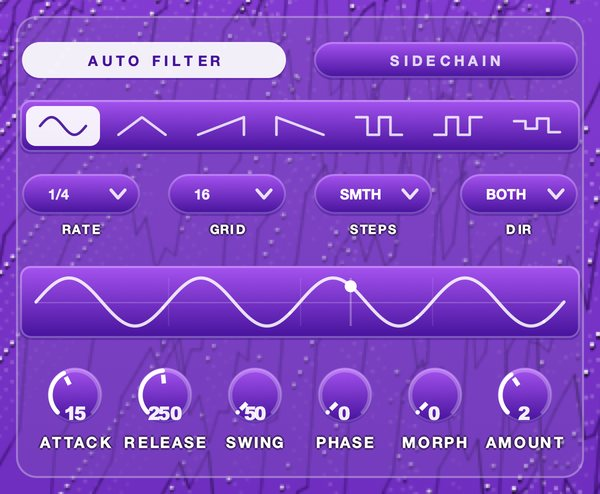
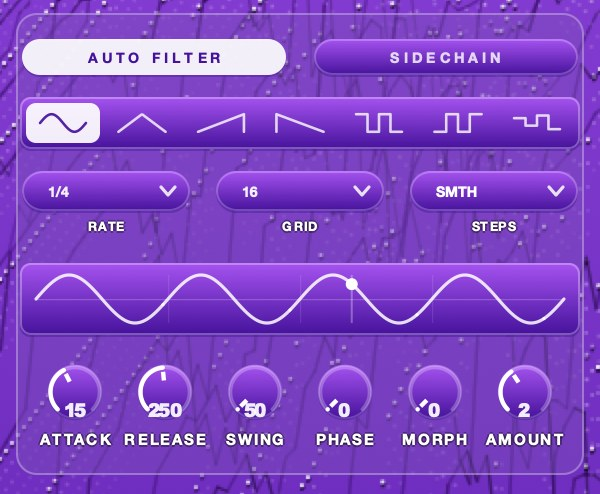
F12 controls page: 2.0.2 (WAH, DRAW, RESO/Q defaults, auto-filter DIR gone, MAX AURA)

Changed region(s): [[0.0, 0.0, 1.0, 1.0], [0.15, 0.7591, 0.18, 0.7895]]

diff --git a/f12-controls.html b/f12-controls.html
@@ -228,7 +228,7 @@ footer a:focus-visible{outline:2px solid var(--chalk); outline-offset:3px}
 
     <div class="ctl">
       <div class="ctl-head"><h3>Max Aura</h3><p class="spec">Switch &middot; <b>off</b> &middot; hidden while AURA is off</p></div>
-      <p class="lead">The same, turned all the way up. More of everything AURA already does to whatever it touches.</p>
+      <p class="lead">More air, more lift, more of the butter.</p>
       <p>You will know within a bar whether a track wants it.</p>
       <div class="plates">
         <figure>
@@ -337,7 +337,7 @@ footer a:focus-visible{outline:2px solid var(--chalk); outline-offset:3px}
     <div class="ctl">
       <div class="ctl-head"><h3>Dirty</h3><p class="spec">Switch &middot; <b>on</b></p></div>
       <p class="lead">Feeds the filter's own distortion back through itself. Off, the same filter runs clean.</p>
-      <p>SLOPE, DIRTY and Q SHAPE are separate controls, so a steep dirty filter can also be a wah. It opens dirty. There is no neutral starting point here on purpose.</p>
+      <p>SLOPE, DIRTY and Q SHAPE are separate controls. It opens dirty. There is no neutral starting point here on purpose.</p>
     </div>
 
     <div class="ctl">
@@ -350,7 +350,7 @@ footer a:focus-visible{outline:2px solid var(--chalk); outline-offset:3px}
       <ul class="opts">
         <li><b>Plain</b> no nodes. The filter's own resonance and nothing added.</li>
         <li><b>Draw</b> your own, drawn on the display. It has its own entry below.</li>
-        <li><b>Wah</b> one strong peak right at the cutoff, with a shallow dip just over an octave above it. The body underneath stays &mdash; a boost, so the lows do not leave when you sweep it.</li>
+        <li><b>Wah</b> one peak that moves with POSITION, sharp at the bottom of its travel and broader at the top, with the lows and highs falling away either side. It takes the filter's place while it is on, so CUTOFF SHAPE, SLOPE, DIRTY, RESO and Q leave it alone.</li>
         <li><b>Vowel</b> four peaks spaced the way a formant table spaces them.</li>
         <li><b>Comb</b> peaks and nulls alternating on even spacing, seven of them across the range.</li>
         <li><b>Scoop</b> a smile. Both ends lifted and the cutoff itself pulled down between them.</li>
@@ -361,34 +361,35 @@ footer a:focus-visible{outline:2px solid var(--chalk); outline-offset:3px}
     </div>
 
     <div class="ctl">
-      <div class="ctl-head"><h3>Draw</h3><p class="spec">Q SHAPE &middot; up to 7 points</p></div>
+      <div class="ctl-head"><h3>Draw</h3><p class="spec">Q SHAPE &middot; up to 12 points</p></div>
       <p class="lead">Your own Q shape. Pick DRAW and the display is where you draw it, starting from the shape you were on.</p>
       <figure class="wide">
         <img src="/f12/manual/grp-draw.jpg" width="600" height="462" alt="The display in DRAW: the filter line bent by four points - a boost low down, a notch cut to the floor, a tall peak with its width handles out either side, and a dip on the falling slope." loading="lazy" decoding="async">
         <figcaption>Four points, one selected with its handles out</figcaption>
       </figure>
       <ul class="opts">
-        <li><b>Click</b> empty space to add a point, and drag it anywhere. All the way down takes that frequency out; all the way up is +24&thinsp;dB.</li>
+        <li><b>Click</b> empty space to add a point, and drag it anywhere. All the way down takes that frequency out; all the way up takes it to the top of the display.</li>
         <li><b>Handles</b> click a point and pull the handles either side of it for its width. Scrolling over a point does the same: up narrows, down widens.</li>
-        <li><b>Right-click</b> a point for bell, notch, low shelf, high shelf, low cut or high cut, or to delete it. Double-click deletes it too.</li>
+        <li><b>Right-click</b> a point for bell, notch, low shelf, high shelf, low cut, high cut, band or tilt, to pin it, or to delete it. Double-click deletes it too.</li>
       </ul>
       <p>The points sit at ratios of the cutoff like every other shape, so they ride POSITION, the auto filter and the sidechain. It works the same on the panel and in the pop-out.</p>
+      <p>A pinned point stays at its frequency while the line moves past it. Drag the line itself, in any Q SHAPE, to move the whole curve up or down: that is OUTPUT TRIM, &plusmn;36&thinsp;dB.</p>
     </div>
 
     <div class="ctl">
       <div class="ctl-head"><h3>Drive, Reso, Q, Mix</h3><p class="spec">The four small dials</p></div>
       <figure class="wide">
-        <img src="/f12/manual/grp-fknobs.jpg" width="560" height="132" alt="The four filter dials: DRIVE at 0, RESO at 25, Q at 35 and MIX at 100." loading="lazy" decoding="async">
+        <img src="/f12/manual/grp-fknobs.jpg" width="560" height="132" alt="The four filter dials: DRIVE at 0, RESO at 0, Q at 0 and MIX at 100." loading="lazy" decoding="async">
         <figcaption>Drive &middot; reso &middot; q &middot; mix</figcaption>
       </figure>
       <ul class="opts">
         <li><b>Drive</b> how hard the signal is pushed into the filter's own saturation. The gain comes back off afterwards, so driving it is character rather than volume. It works wherever the filter is running, and does nothing with FILTER off. 0 to 18&thinsp;dB, opens at 0.</li>
-        <li><b>Reso</b> how hard it sings. 0 to 100&thinsp;%, opens at 25.</li>
-        <li><b>Q</b> how narrow that singing is, and how tight the Q SHAPE nodes sit with it. It drives a peaking section right at the corner, so it is audible on every shape including PLAIN. 0 to 100&thinsp;%, opens at 35.</li>
+        <li><b>Reso</b> how hard it sings. 0 to 100&thinsp;%, opens at 0.</li>
+        <li><b>Q</b> how narrow that singing is, and how tight the Q SHAPE nodes sit with it. It drives a peaking section right at the corner, so it is audible on every shape including PLAIN. 0 to 100&thinsp;%, opens at 0.</li>
         <li><b>Mix</b> how much of the whole thing you keep against what went in untouched. 0 to 100&thinsp;%, opens at 100.</li>
       </ul>
       <p>DRIVE belongs to the filter, not the crush. It pushes the filter's own saturation, so the crush pair stays just SAMPLE RATE and BIT.</p>
-      <p>RESO and Q are the pair to learn together. A wah at low Q is a broad sweep; the same wah at high Q is a point.</p>
+      <p>RESO and Q are the pair to learn together.</p>
       <p>RESO scales the filter's whole resonance behavior rather than setting one fixed value, so the character holds across the sweep instead of drifting as POSITION moves.</p>
     </div>
   </section>
@@ -411,7 +412,7 @@ footer a:focus-visible{outline:2px solid var(--chalk); outline-offset:3px}
       <p>Locked to the arrangement rather than free-running: it moves only while the transport moves, it stops and returns to the start when you stop, and the sweep lands in the same place in the bar wherever you drop the playhead. On every shape but RANDOM, bar 9 looks like bar 1 and the same eight bars bounce the same way twice.</p>
       <p>RANDOM is the exception, and worth knowing before you print. It draws a fresh value every time the cycle turns over, and that draw does not reset with the transport &mdash; so it does not repeat from take to take. Commit it to audio when you get one you like.</p>
       <figure class="wide">
-        <img src="/f12/manual/grp-auto.jpg" width="600" height="494" alt="The movement group with AUTO FILTER engaged: the seven shape tiles, then RATE, GRID, STEPS and DIR, then the drawn sweep with a dot on it, then the ATTACK, RELEASE, SWING, PHASE, MORPH and AMOUNT dials." loading="lazy" decoding="async">
+        <img src="/f12/manual/grp-auto.jpg" width="600" height="494" alt="The movement group with AUTO FILTER engaged: the seven shape tiles, then RATE, GRID and STEPS, then the drawn sweep with a dot on it, then the ATTACK, RELEASE, SWING, PHASE, MORPH and AMOUNT dials." loading="lazy" decoding="async">
         <figcaption>Auto filter, open</figcaption>
       </figure>
     </div>
@@ -485,12 +486,6 @@ footer a:focus-visible{outline:2px solid var(--chalk); outline-offset:3px}
       <div class="ctl-head"><h3>The sweep</h3><p class="spec">Drawn &middot; under the boxes</p></div>
       <p class="lead">A picture of the move all of these make together, and a dot where the song is.</p>
       <p>It shows one bar, or one whole cycle when a cycle runs longer than a bar, with the beats marked faintly so SWING and PHASE can be read against them. Nothing on it is a control.</p>
-    </div>
-
-    <div class="ctl">
-      <div class="ctl-head"><h3>Dir</h3><p class="spec">Both, up, down &middot; <b>both</b></p></div>
-      <p class="lead">Sends the sweep up from the filter, down from it, or both ways.</p>
-      <p>POSITION is the origin. On UP the knob is the floor of the sweep, on DOWN the ceiling, on BOTH the center &mdash; so switching this moves where the same setting sits without you touching the big dial.</p>
     </div>
 
     <div class="ctl">
@@ -635,8 +630,8 @@ footer a:focus-visible{outline:2px solid var(--chalk); outline-offset:3px}
           <tr><td>Dirty</td><td>switch</td><td>On</td><td>Filter</td></tr>
           <tr><td>Q Shape</td><td>6 tiles</td><td>Plain</td><td>Filter</td></tr>
           <tr><td>Drive</td><td>0 &ndash; 18 dB</td><td>0</td><td>Filter</td></tr>
-          <tr><td>Reso</td><td>0 &ndash; 100 %</td><td>25</td><td>Filter</td></tr>
-          <tr><td>Q</td><td>0 &ndash; 100 %</td><td>35</td><td>Filter</td></tr>
+          <tr><td>Reso</td><td>0 &ndash; 100 %</td><td>0</td><td>Filter</td></tr>
+          <tr><td>Q</td><td>0 &ndash; 100 %</td><td>0</td><td>Filter</td></tr>
           <tr><td>Mix</td><td>0 &ndash; 100 %</td><td>100</td><td>Filter</td></tr>
           <tr><td>Auto Filter</td><td>switch</td><td>Off</td><td>Movement</td></tr>
           <tr><td>Sidechain</td><td>switch</td><td>Off</td><td>Movement</td></tr>
@@ -649,7 +644,6 @@ footer a:focus-visible{outline:2px solid var(--chalk); outline-offset:3px}
           <tr><td>Grid</td><td>16th, 8th, quint</td><td>16th</td><td>Auto filter only</td></tr>
           <tr><td>Swing</td><td>50 &ndash; 75 %</td><td>50</td><td>Auto filter only</td></tr>
           <tr><td>Phase</td><td>0 &ndash; 360&deg;</td><td>0</td><td>Auto filter only</td></tr>
-          <tr><td>Dir</td><td>Both, up, down</td><td>Both</td><td>Auto filter only</td></tr>
           <tr><td>Amount</td><td>0 &ndash; 4 octaves</td><td>1.5</td><td>Auto filter only</td></tr>
           <tr><td>Source</td><td>Input, sidechain</td><td>Input</td><td>Sidechain only</td></tr>
           <tr><td>Listen</td><td>Full, lows, mids, highs</td><td>Full</td><td>Sidechain only</td></tr>
